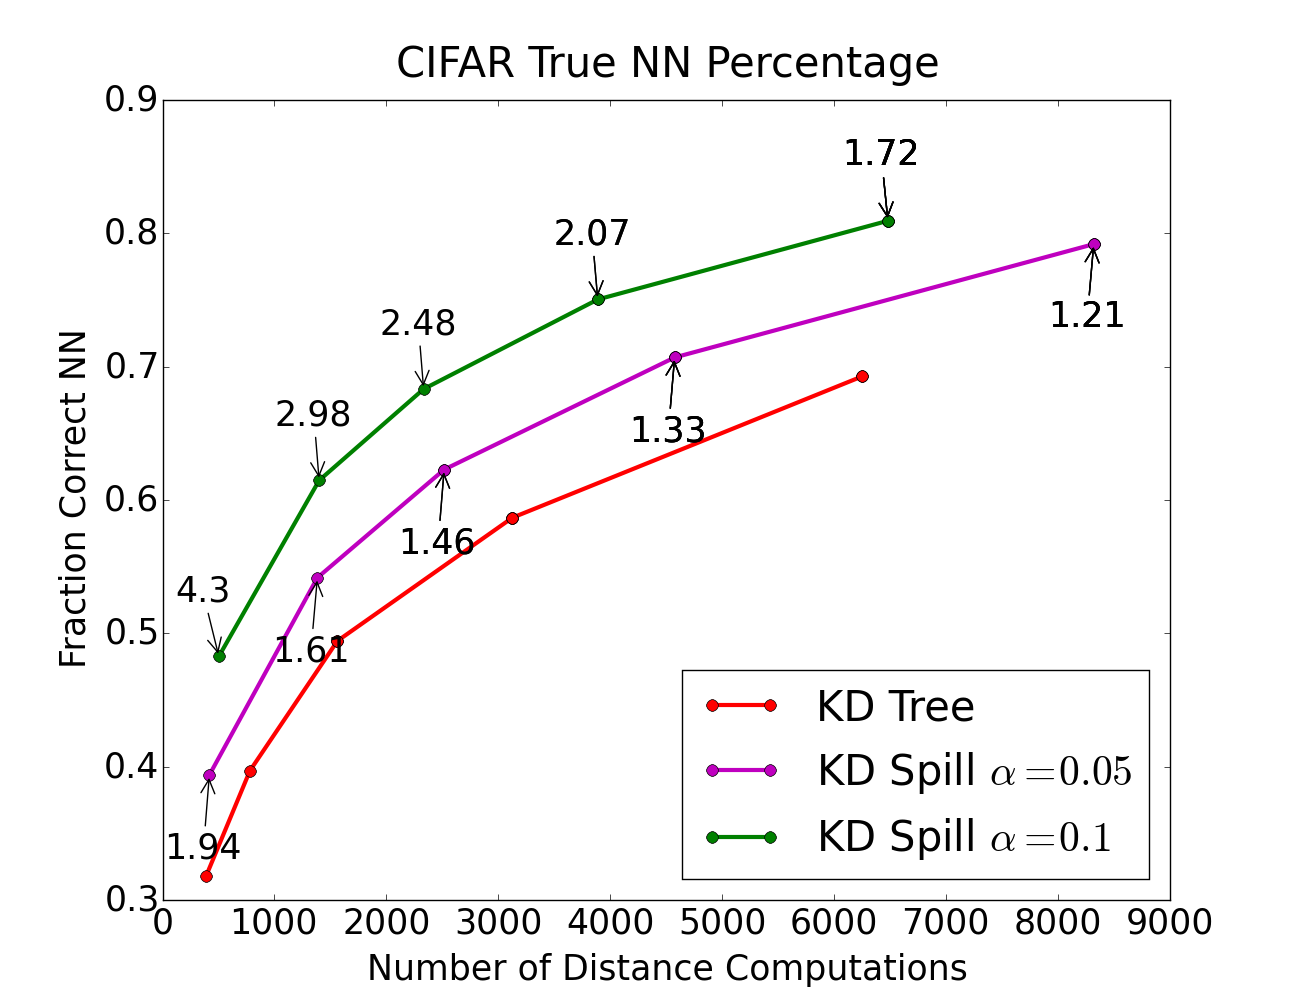
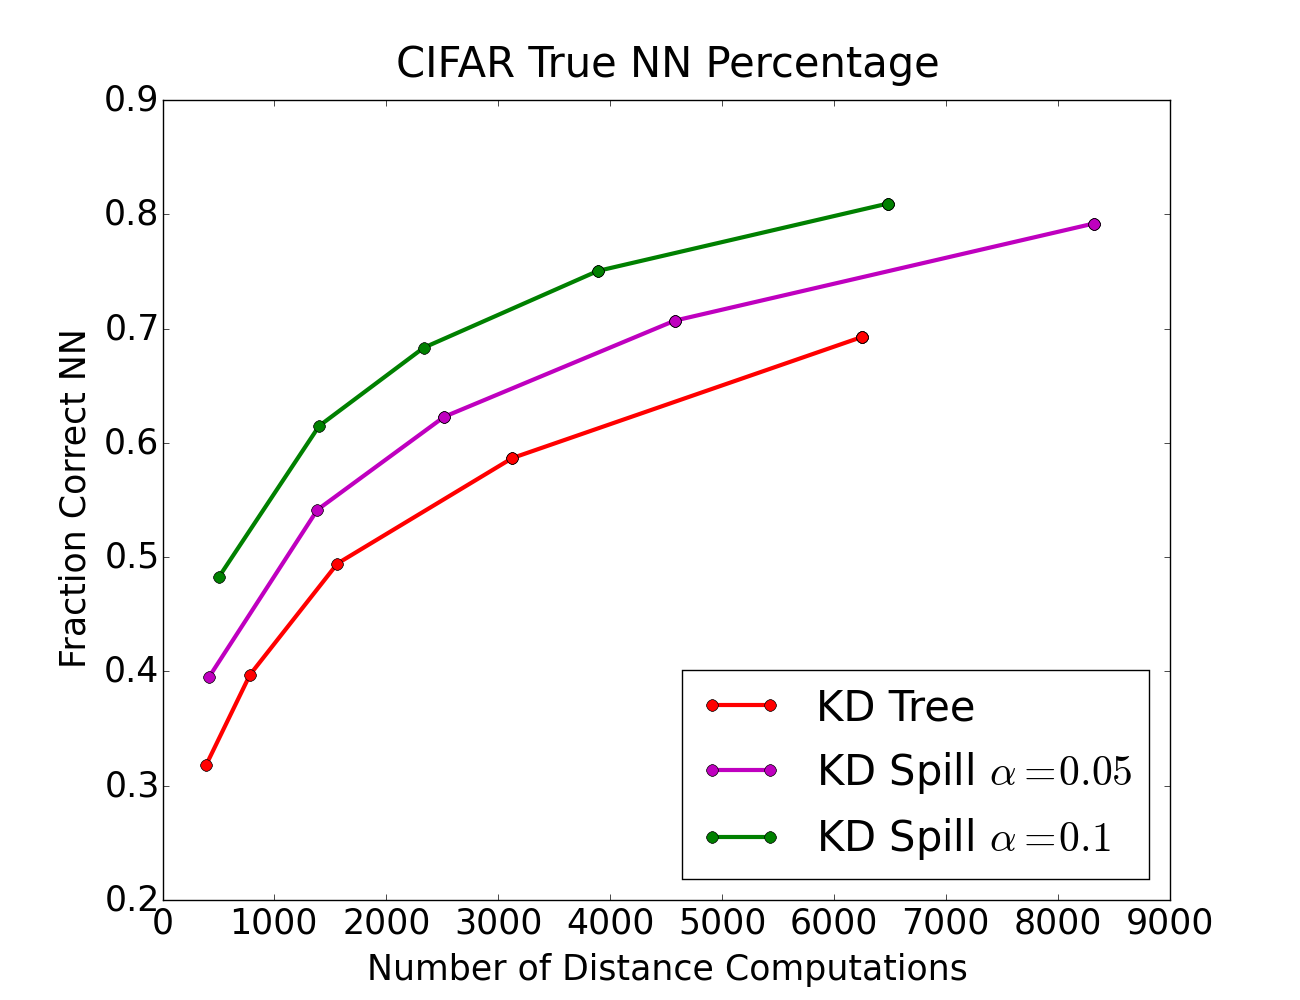
updated kd spill data

diff --git a/data/cifar/pyplot.py b/data/cifar/pyplot.py
@@ -57,15 +57,15 @@ def kd_pca():
 	plt.savefig(data_set + "_kd_pca.png")
 
 def kd_spill():
-	plt.axis([0,9000,0.3,0.9])
+	plt.axis([0,9000,0.2,0.9])
 	kd_x, kd_y = read_file(3,2,'kd_tree.dat')
 	spill05_x, spill05_y, spill05_label = read_partial_file_w_label(4,3,5,0,19,2,'kd_spill_tree.dat')
 	spill1_x, spill1_y, spill1_label = read_partial_file_w_label(4,3,5,1,19,2,'kd_spill_tree.dat')
 	kd_line, = plt.plot(kd_x, kd_y, 'ro-', label='KD Tree', lw=3, ms=8)
 	spill05_line, = plt.plot(spill05_x, spill05_y, 'mo-', label='KD Spill $\\alpha=0.05$', lw=3, ms=8)
 	spill1_line, = plt.plot(spill1_x, spill1_y, 'go-', label='KD Spill $\\alpha=0.1$', lw=3, ms=8)
-	label_points(spill05_x, spill05_y, -30, -60, spill05_label)
-	label_points(spill1_x, spill1_y, -30, 40, spill1_label)
+	#label_points(spill05_x, spill05_y, -30, -60, spill05_label)
+	#label_points(spill1_x, spill1_y, -30, 40, spill1_label)
 	plt.legend(handles=[kd_line, spill05_line, spill1_line],loc=4)
 	figure = plt.gcf()
 	figure.set_size_inches(13, 10)
@@ -212,7 +212,7 @@ def main():
 	global data_set
 	data_set = 'cifar'
 
-	pca_spill()
+	kd_spill()
 
 main()
 

diff --git a/data/mnist/pyplot.py b/data/mnist/pyplot.py
@@ -56,15 +56,15 @@ def kd_pca():
 	plt.savefig(data_set + "_kd_pca.png")
 
 def kd_spill():
-	plt.axis([0,11000,0.4,1])
+	plt.axis([0,11000,0.4,0.9])
 	kd_x, kd_y = read_file(3,2,'kd_tree.dat')
 	spill05_x, spill05_y, spill05_label = read_partial_file_w_label(4,3,5,0,20,2,'kd_spill_tree.dat')
 	spill1_x, spill1_y, spill1_label = read_partial_file_w_label(4,3,5,1,20,2,'kd_spill_tree.dat')
 	kd_line, = plt.plot(kd_x, kd_y, 'ro-', label='KD Tree', lw=3, ms=8)
 	spill05_line, = plt.plot(spill05_x, spill05_y, 'mo-', label='KD Spill $\\alpha=0.05$', lw=3, ms=8)
 	spill1_line, = plt.plot(spill1_x, spill1_y, 'go-', label='KD Spill $\\alpha=0.1$', lw=3, ms=8)
-	label_points(spill05_x, spill05_y, 10, -50, spill05_label)
-	label_points(spill1_x, spill1_y, -30, 40, spill1_label)
+	#label_points(spill05_x, spill05_y, 10, -50, spill05_label)
+	#label_points(spill1_x, spill1_y, -30, 40, spill1_label)
 	plt.legend(handles=[kd_line, spill05_line, spill1_line],loc=4)
 	figure = plt.gcf()
 	figure.set_size_inches(13, 10)
@@ -215,7 +215,7 @@ def main():
 	global data_set
 	data_set = 'mnist'
 
-	pca_spill()
+	kd_spill()
 
 main()
 
